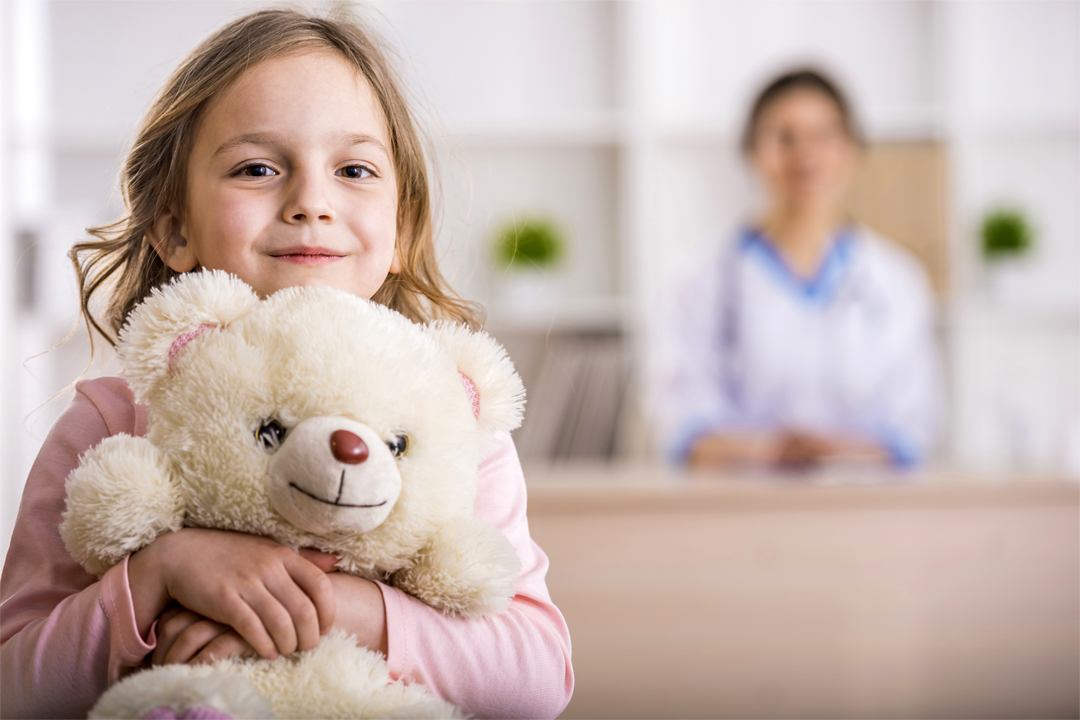
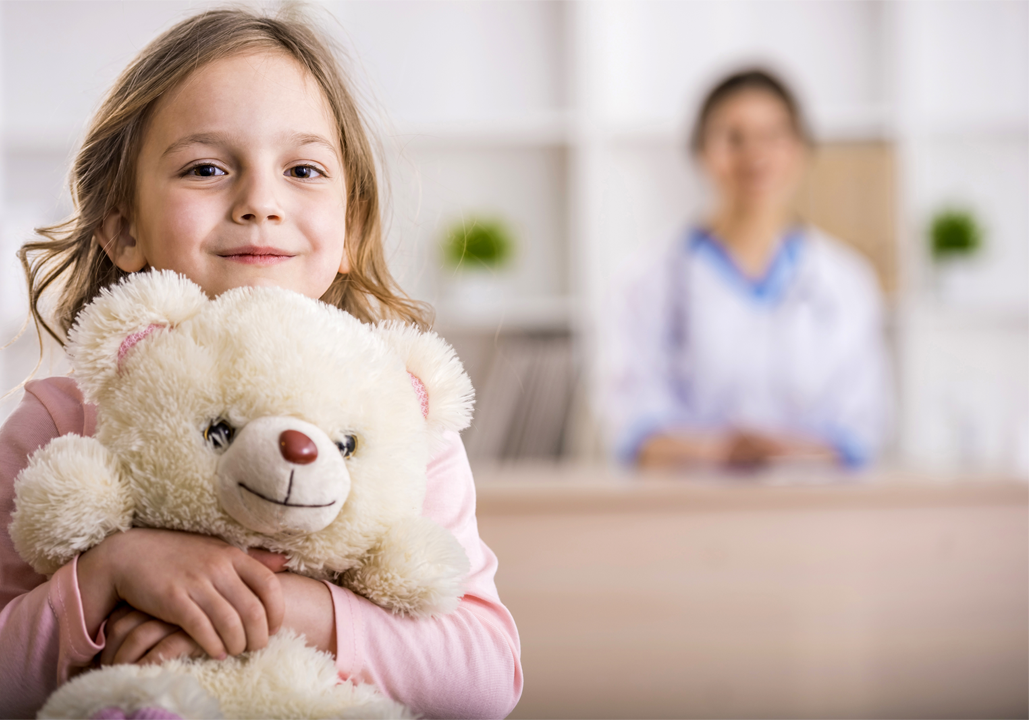
[CODE] Fixing navbar and background of the Landing page.

diff --git a/crp/static/css/landingPage.css b/crp/static/css/landingPage.css
@@ -76,6 +76,7 @@ a:focus, a:hover {
 
 #mainNav a {
     color: white;
+    text-shadow: 1px 1px 1px #000;
 }
 
 #mainNav .navbar-nav .nav-item {
@@ -100,7 +101,7 @@ a:focus, a:hover {
         -moz-transition: background 0.3s ease-in-out, padding-top 0.3s ease-in-out, padding-bottom 0.3s;
         -webkit-transition: background 0.3s ease-in-out, padding-top 0.3s ease-in-out, padding-bottom 0.3s;
         background: rgb(0, 0, 0);
-        background: rgba(0, 0, 0, 0.7);;
+        background: transparent;
         border-bottom: none;
         letter-spacing: 1px;
         padding-top: 20px;
@@ -143,6 +144,7 @@ a:focus, a:hover {
     text-align: center;
     width: 100%;
     background-position-y: 0;
+
 }
 
 .masthead .intro-body {
